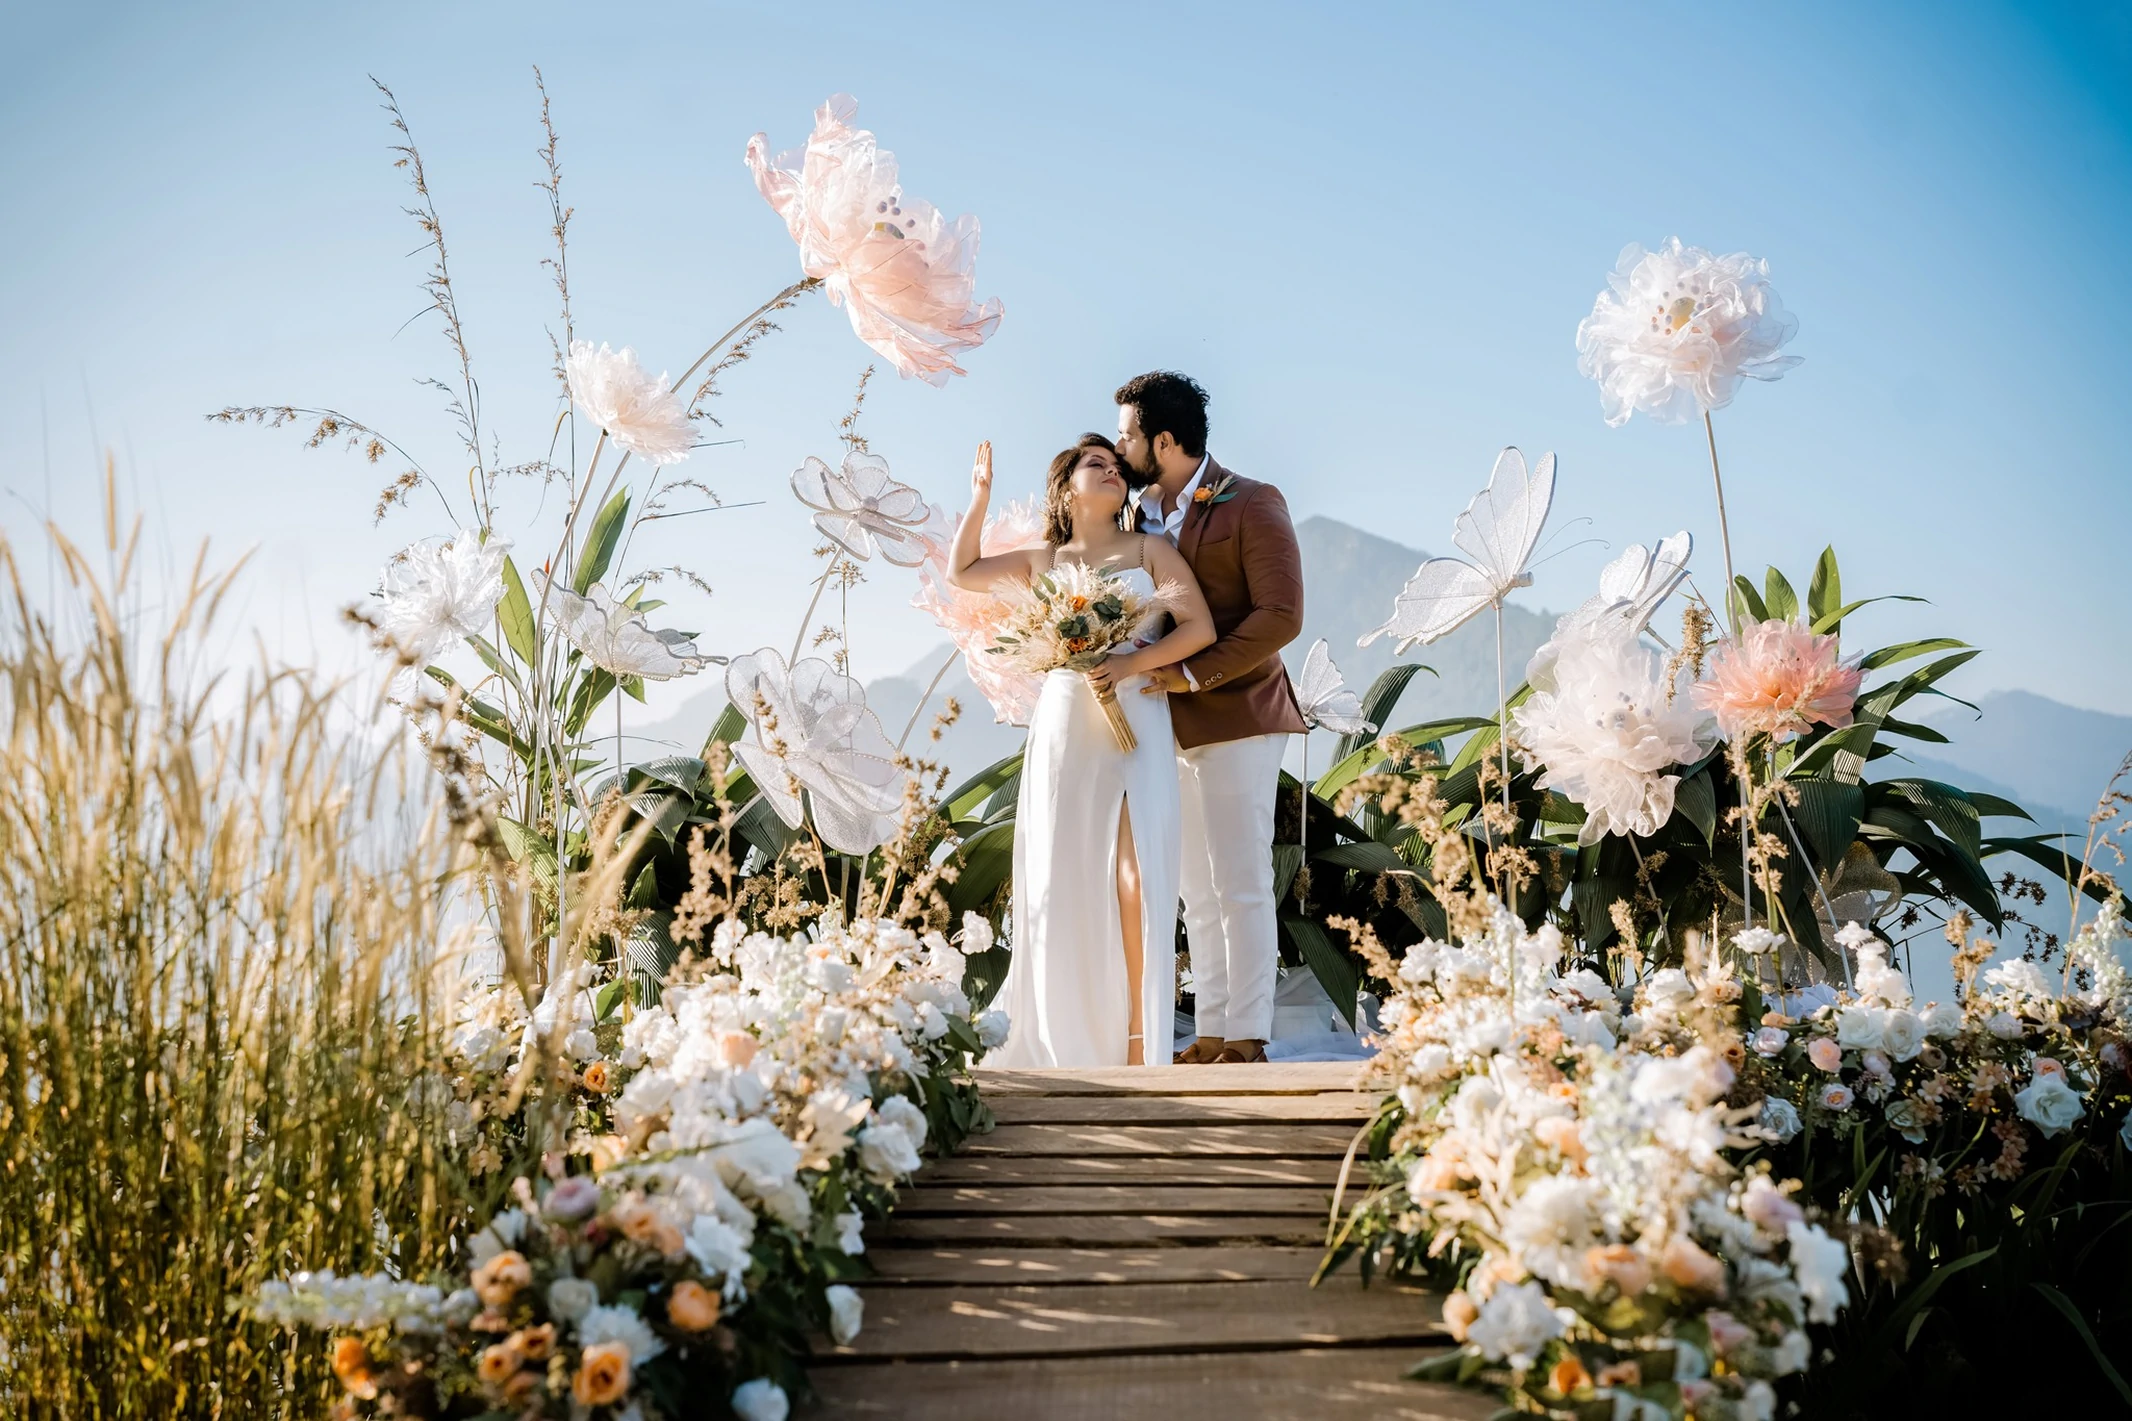
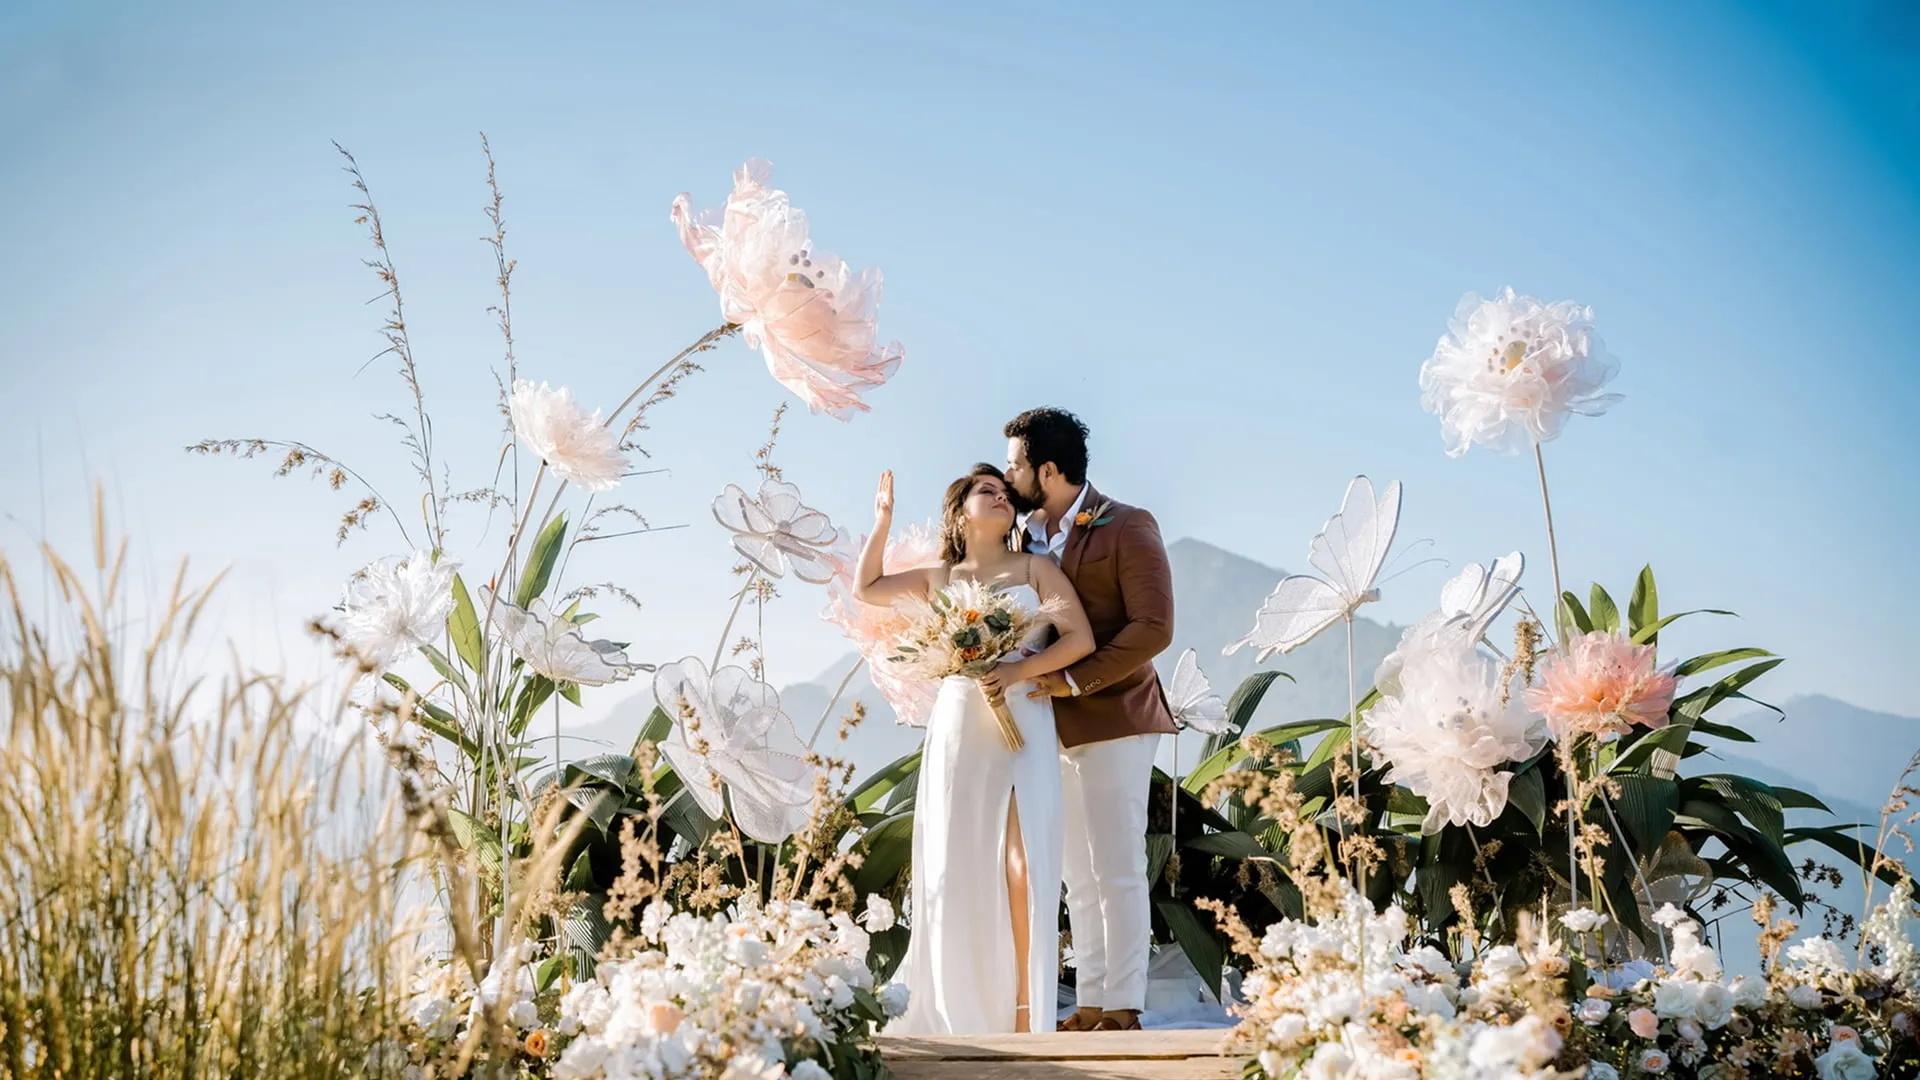
image optimization

diff --git a/app/globals.css b/app/globals.css
@@ -48,7 +48,7 @@ body {
   background-size: cover;
 }
 .footertexture {
-  background-image: url("../public/images/FooterTexture.png");
+  background-image: url("../public/images/FooterTexture.webp");
   background-size: cover;
 }
 
